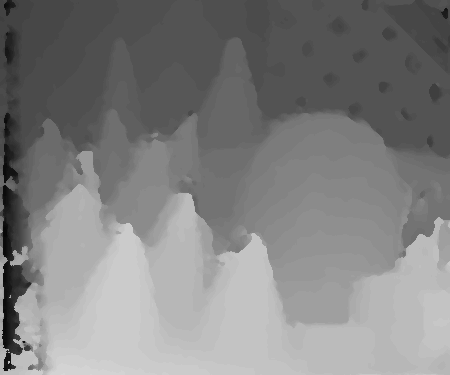
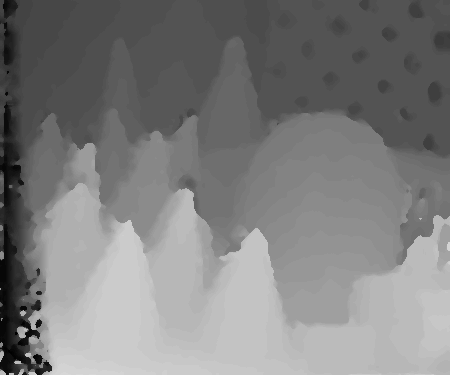
bug fixed

diff --git a/sgbm_core.py b/sgbm_core.py
@@ -105,7 +105,7 @@ class Ti_SGBM:
     @ti.kernel
     def aggregate_NW2SE(self, minimum_cost: ti.types.ndarray(), cost_volume: ti.types.ndarray(), p1: ti.f32, p2: ti.f32):
         for line in range(self.height - 1):
-            for x in range(1, self.height - 1 - line):
+            for x in range(1, ti.min(self.width, self.height - 1 - line)):
                 y = x + line
                 min_cost_last = 1.0 * 2**30
                 for d in range(self.disparities):
@@ -127,7 +127,7 @@ class Ti_SGBM:
                     minimum_cost[y, x, d] = cost_volume[y, x, d] + tmp - min_cost_last
 
         for line in range(self.width - 2):
-            for y in range(1, self.width - 1 - line):
+            for y in range(1, ti.min(self.height, self.width - 1 - line)):
                 x = y + line + 1
                 min_cost_last = 1.0 * 2**30
                 for d in range(self.disparities):
